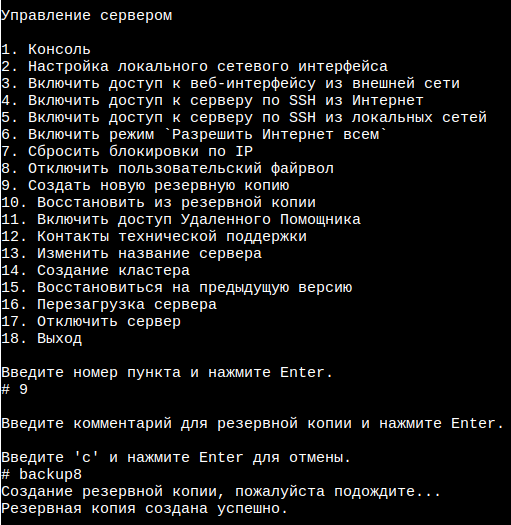
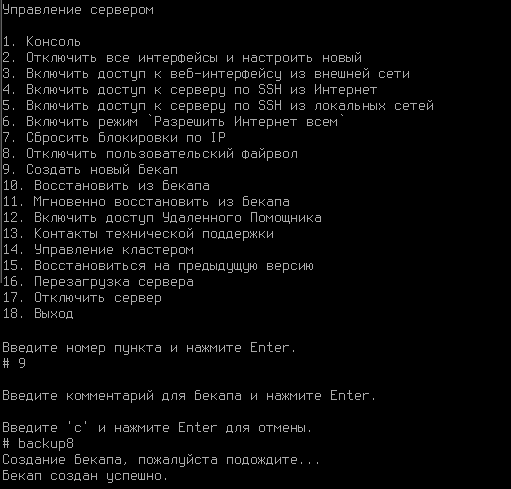
ICS-34306 УТМ. Актуализировать текст и графику в разделе Бекапы

Changed region(s): [[0.0, 0.0, 0.9687, 0.8282], [0.0, 0.8589, 0.8219, 0.9816]]

diff --git a/settings/server-management/backup.md b/settings/server-management/backup.md
@@ -88,7 +88,11 @@ description: >-
 
 Перейдите в локальное меню и выполните действия:
 
-1\. Выберите пункт **10** и нажмите **Enter**. 
+1\. Выберите пункт:
+* **10** - восстановятся все настройки и перезагрузится сервер;
+* **11** - восстановятся все настройки без перезагрузки сервера, кроме использованного трафика по квотам, изменений в списке пользователей и отчетах.
+
+  Нажмите **Enter**. 
 
 2\. Выберите из списка бекап, введя пункт нужной копии, и нажмите **Enter**. 
 

diff --git a/SUMMARY.md b/SUMMARY.md
@@ -230,7 +230,7 @@
 * [Ideco NGFW VPP](changelog/vpp/README.md)
   * [Версия Ideco NGFW VPP 16.X](changelog/vpp/versiya-vpp-ngfw-16.x.md)
   * [Версия Ideco UTM VPP 15.X](changelog/vpp/versiya-vpp-ngfw-15.x.md)
-* [Ideco UTM](changelog/ideco-utm/README.md)
+* [Ideco NGFW](changelog/ideco-utm/README.md)
   * [Версия Ideco NGFW 17.X](changelog/ideco-utm/ideco-ngfw-17.x.md)
   * [Версия Ideco NGFW 16.X](changelog/ideco-utm/ideco-ngfw-16.x.md)
   * [Версия Ideco UTM 15.X](changelog/ideco-utm/ideco-utm-15.x.md)
